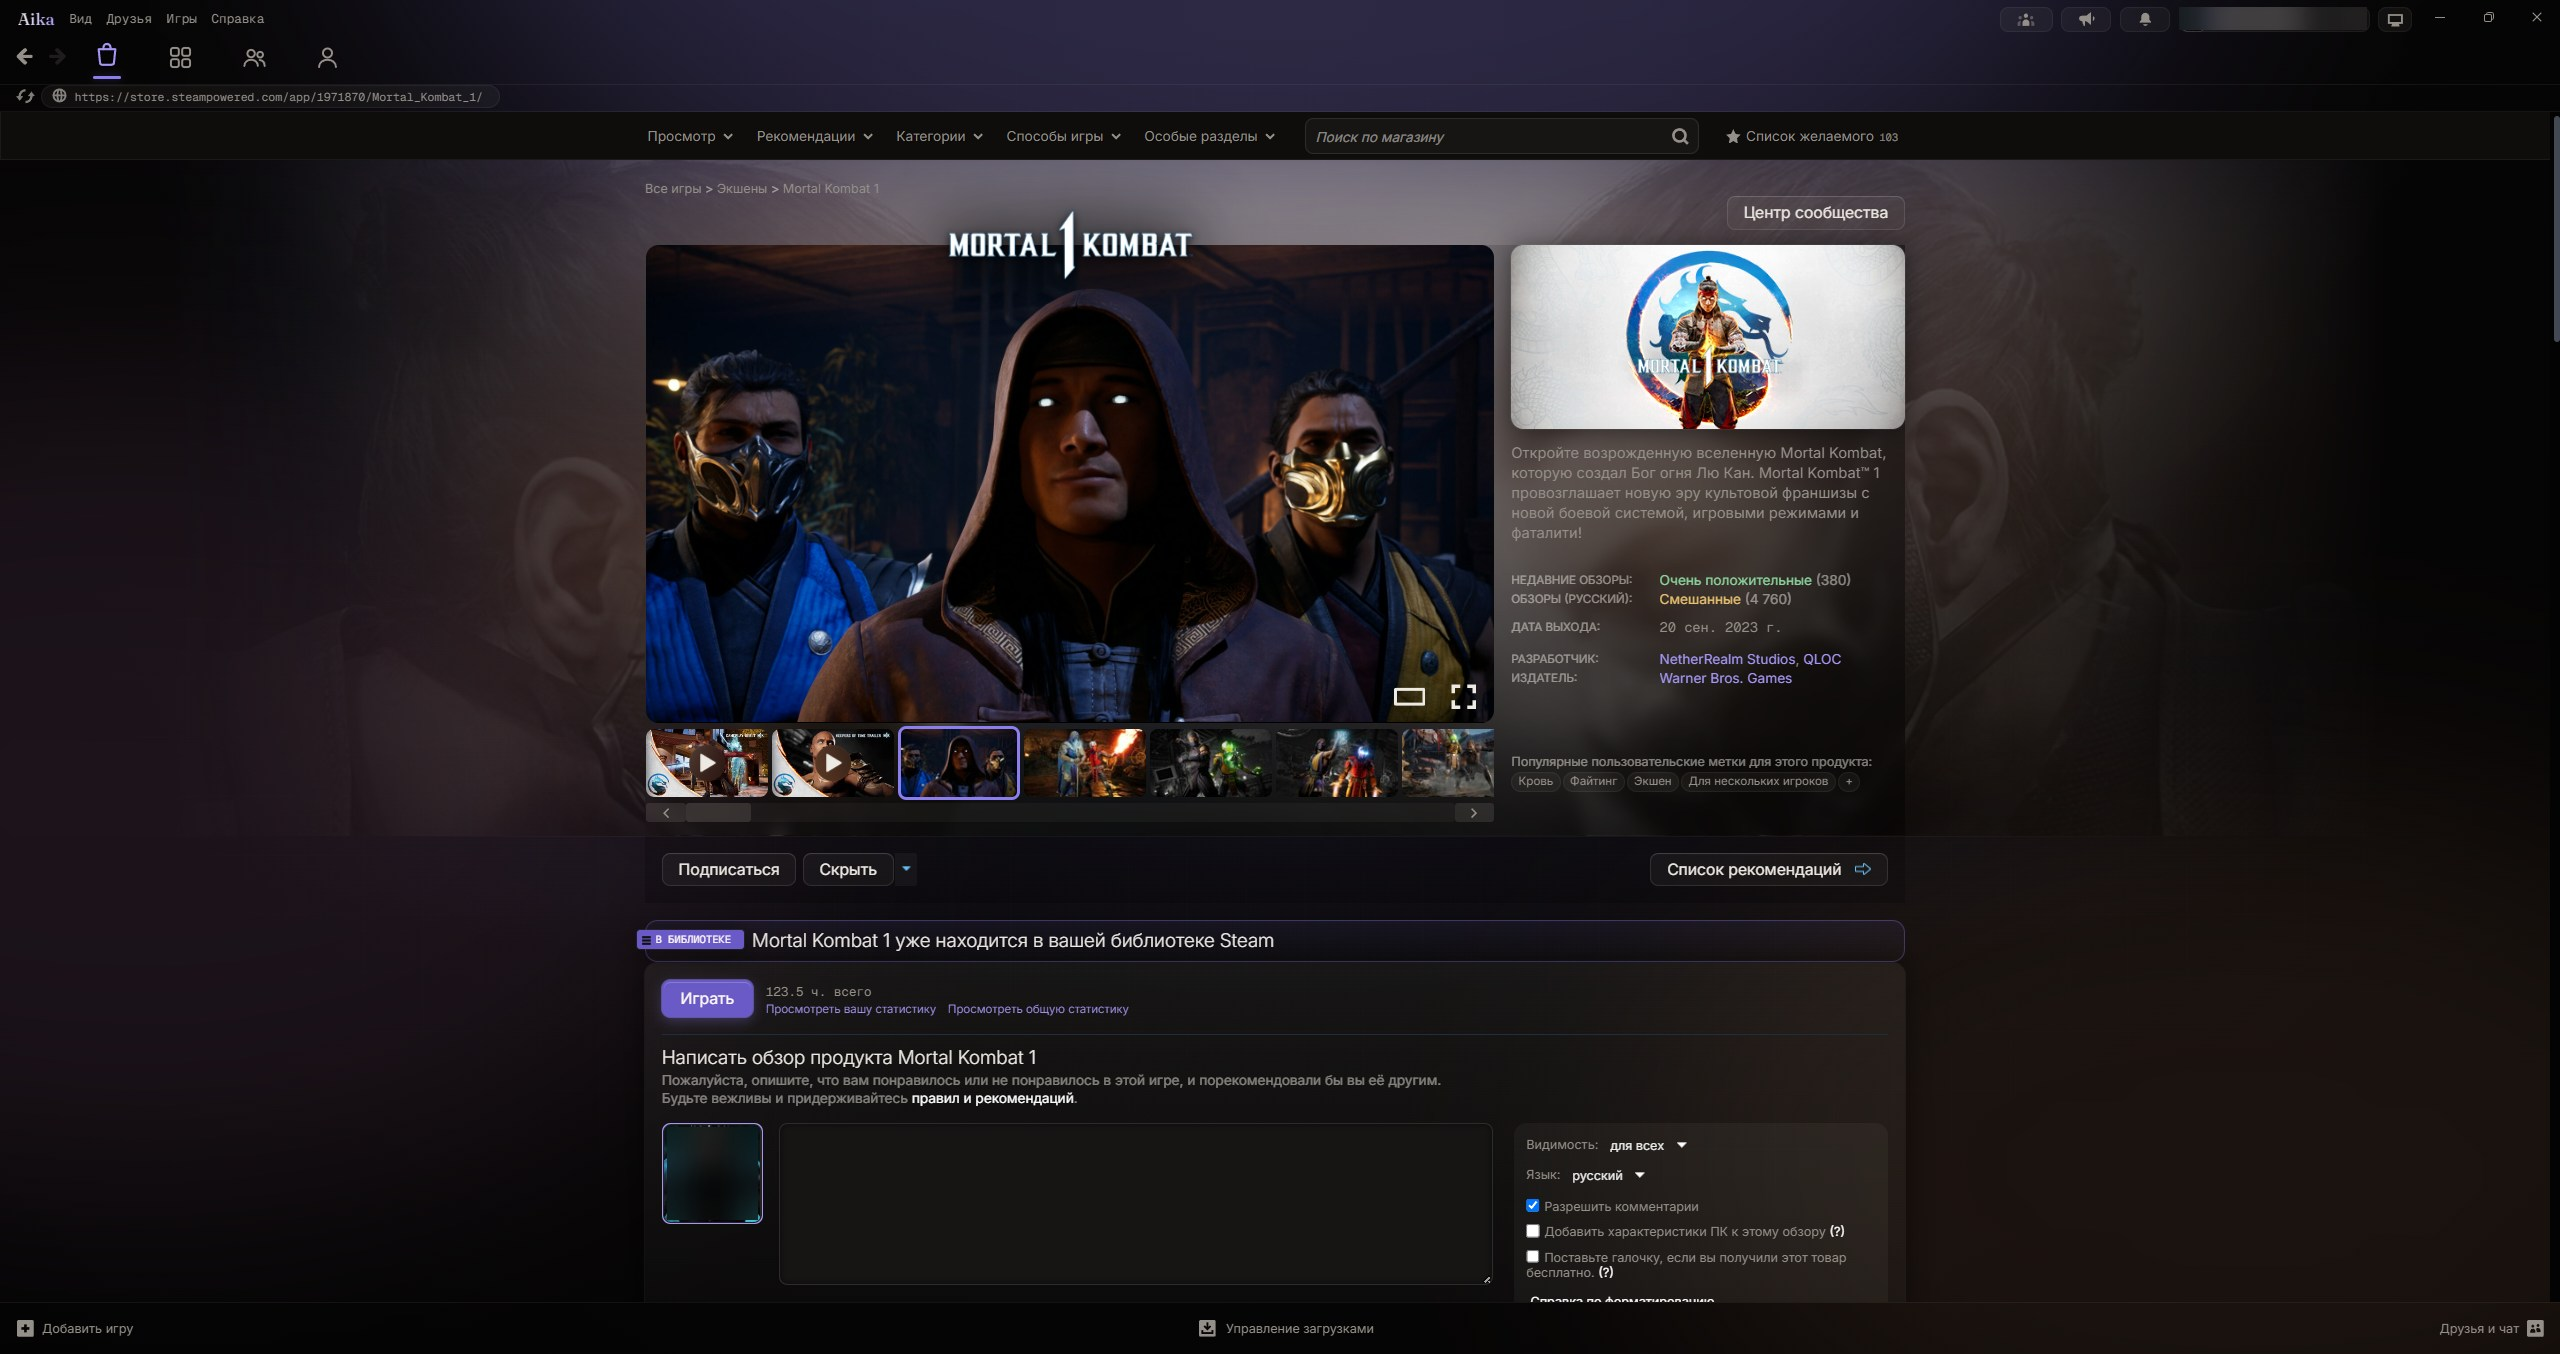
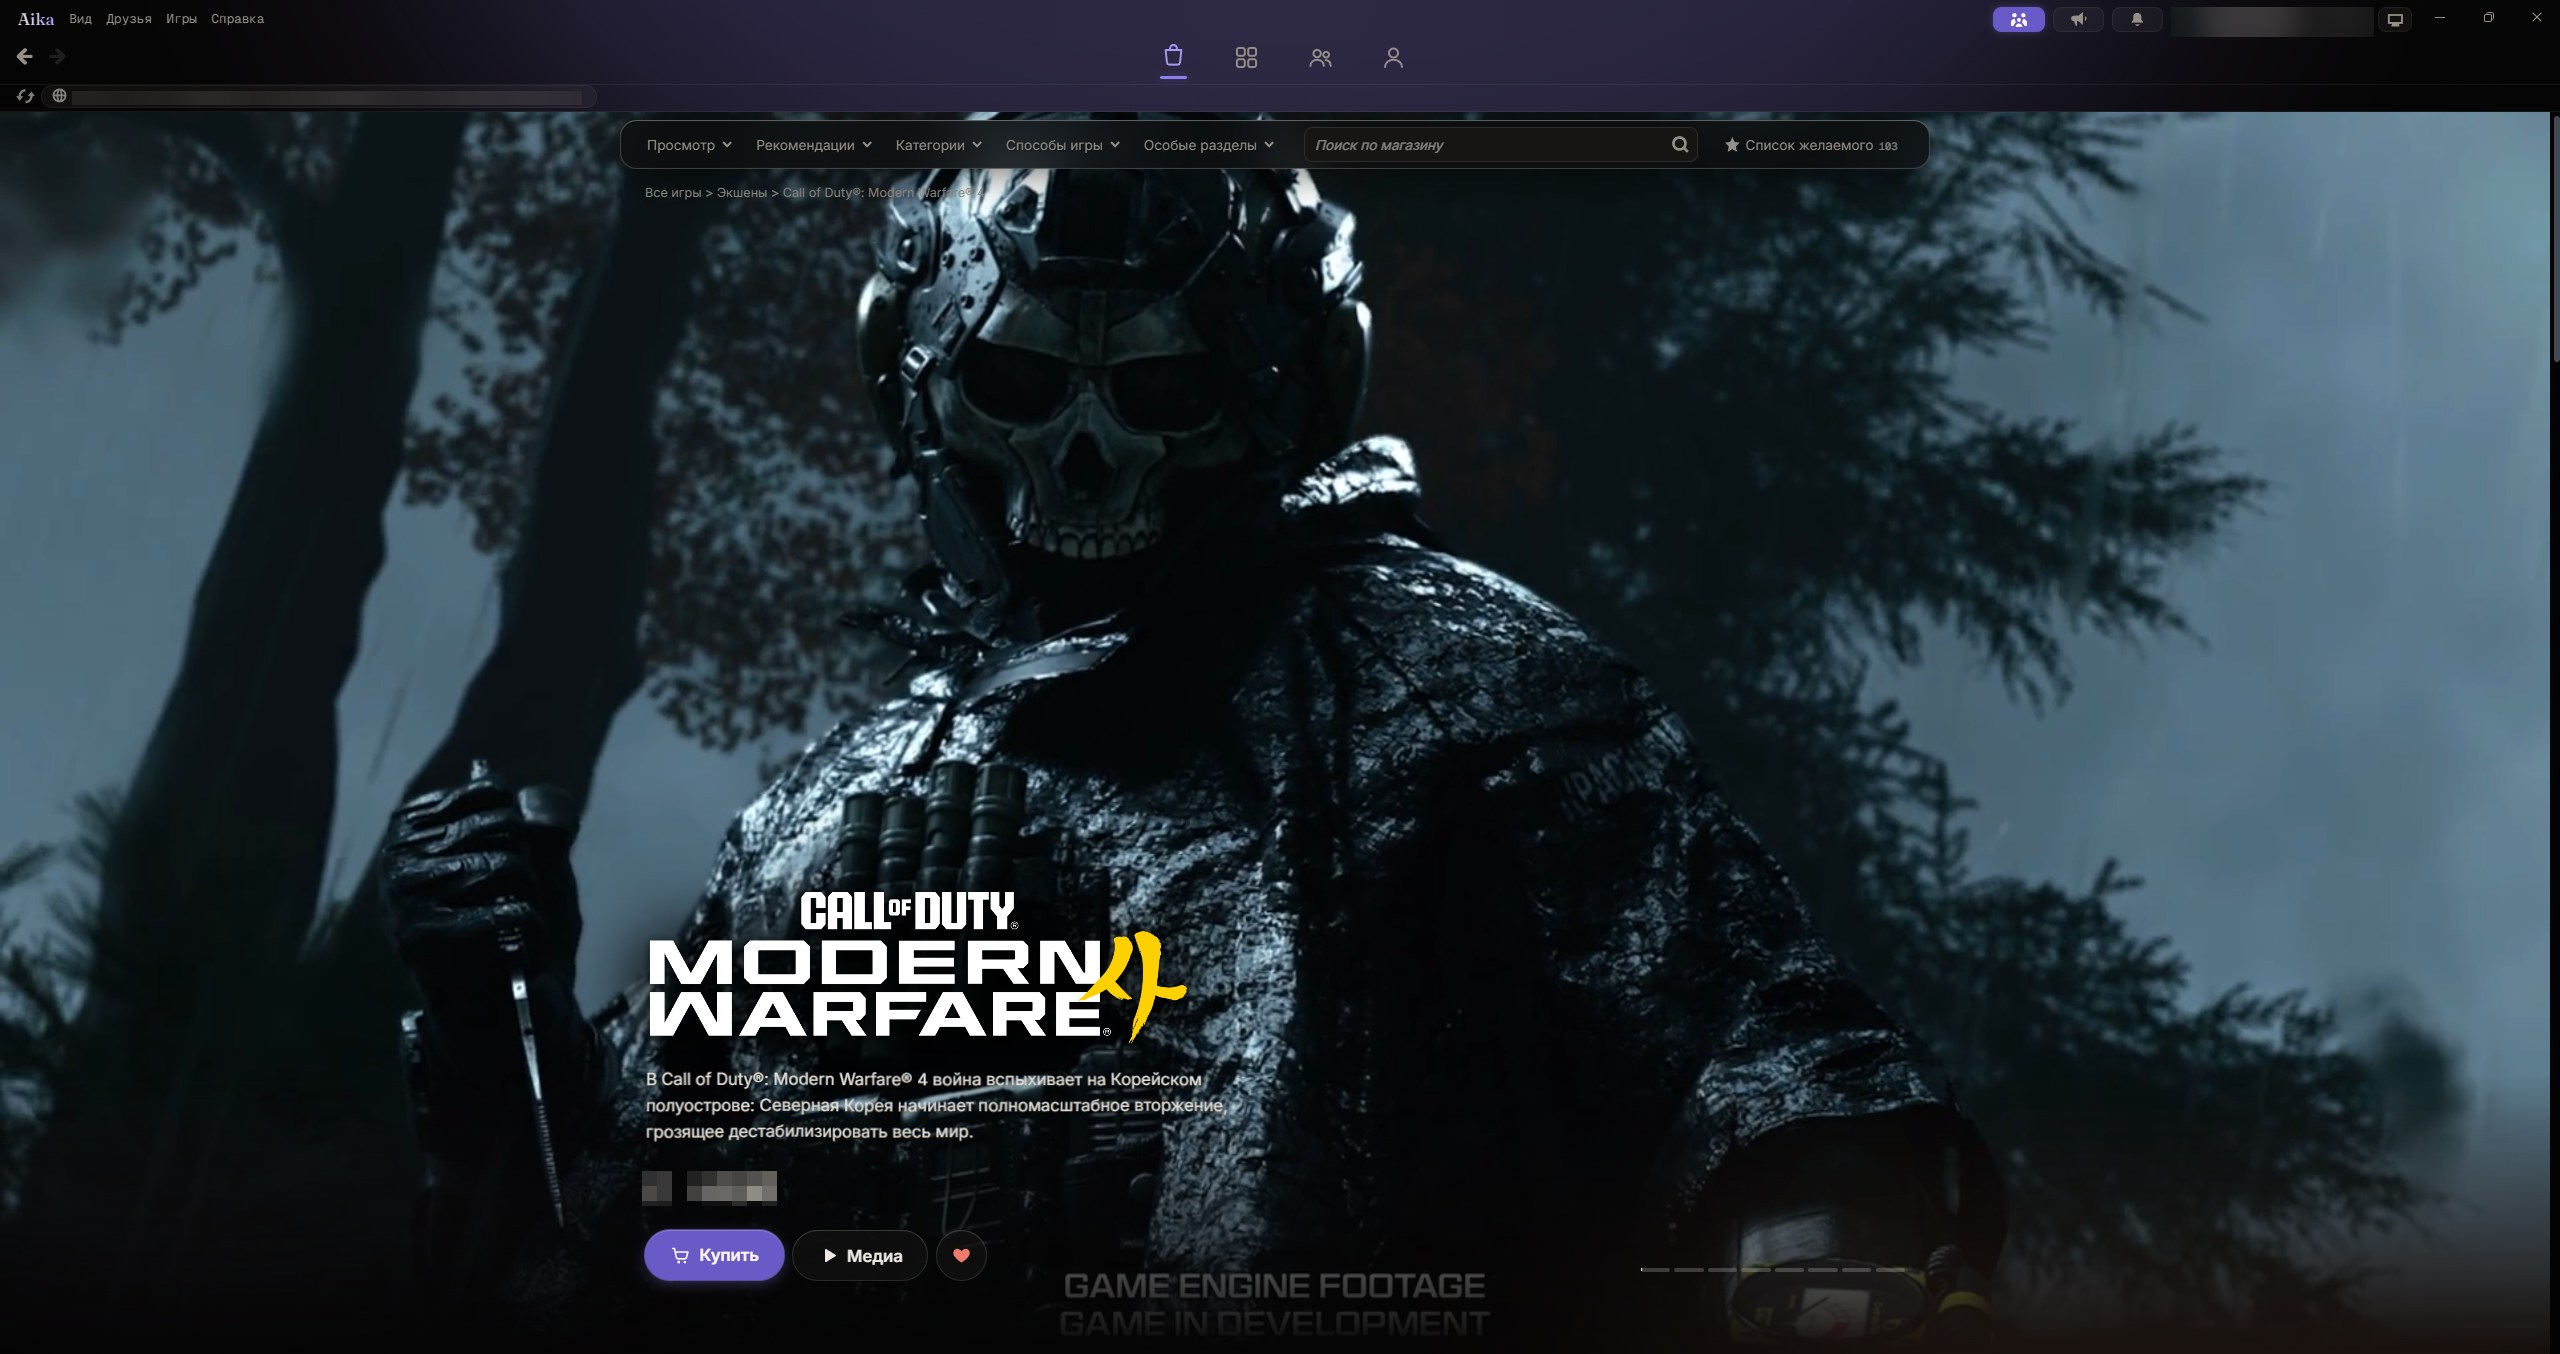
README: new screenshots for 0.1.2 (store home, Cinematic page, search, wishlist, color presets)

diff --git a/ROADMAP.md b/ROADMAP.md
@@ -180,7 +180,7 @@
 | 2026-10-13 | Privacy blur in the header account menu (author: the balance blurred until hovered, a setting, on by default). New setting Main → Privacy blur: Balance (default) / Name and balance / Off — options/privacy-balance.css and privacy-account.css set --aika-privacy-balance / -name to --aika-privacy-blur (3 px: visibly blurred, not wiped out — 5 px erased the small text); components/window.css blurs .AccountMenu > .WalletBalance and the name div with a 250 ms transition, cleared while the menu is hovered or focused. Verified with zoomed screenshots at rest / hovered and with the name option | components/window.css, options/privacy-balance.css, options/privacy-account.css, skin.json, tokens.css, README.md |
 | 2026-10-13 | Checkout (checkout.steampowered.com, body.v6.checkout; ?purchasetype=updatebillinginfo): new sections/store-checkout.css (CSS only — Millennium injects no theme JS into checkout, verified: webkit.css and the option CSS are there, zero theme scripts). The blue cluster_bg band removed; the step tab an accent mono pill (the #66c0f4 box and its PNG notch gone); headings in Inter without the uppercase tracking (the first as the store headline); the form panel and the payment methods block Aika cards; captions in Inter (mono tracking ran the long captions together); fields the Aika input (36 px, focus ring), the card number / CVV mono; dropdowns the same height (Steam content-box + padding made them 48 px), our chevron instead of the PNG arrow, room for it on the narrow month / year triggers; Continue the accent primary instead of the lime gradient. The live-typing card preview (reactbits Pro Credit Card) is not possible without JS — asked the author about a CSS-only alternative | sections/store-checkout.css, webkit.css, tokens.css |
 | 2026-10-13 | Checkout card (author chose the CSS-only variant of reactbits Pro Credit Card: no JS on checkout, CSS cannot read field values). .rightcol::before — the front, in the flow and as wide as the Payment methods block (author), card proportions; ::after — the back laid over it; 3D flip. Art as SVG data URIs in colors.css (chip, contactless, Aika wordmark, placeholder dots, CARD HOLDER / VALID THRU; the back: stripe, signature panel, CVV box) — placeholders only, no field value is read or drawn. Focus follows the form: the number row, the holder or the expiry gets a light frame (a background layer moved by --aika-card-focus-*, percentages = x / (300 − w) so it lands right at any width), the security code turns the card over. Gotcha: the card rules carry :has(#id) and outweighed the focus rules — the states are variables defaulted in a low-specificity rule. Shown only while the card fields are on the page. Verified with CDP focus emulation (Emulation.setFocusEmulationEnabled — an unfocused page never matches :focus) and screenshots of every state | sections/store-checkout.css, colors.css, tokens.css |
-| 2026-10-13 | Release 0.1.2 prepared: version in skin.json, README (highlights, settings with Library covers and Privacy blur, the roadmap table: checkout, the sign-in window, the loading curtain and page transitions, discovery queue, floating icons; the React Bits / Motion credits), privacy check of the 52 files changed since v0.1.1b (no account name, profile id, friend nicknames, user paths), release notes drafted. Waiting for the author screenshots before the tag and the GitHub release | skin.json, README.md |
+| 2026-10-13 | Release 0.1.2 prepared: version in skin.json, README (highlights, settings with Library covers and Privacy blur, the roadmap table: checkout, the sign-in window, the loading curtain and page transitions, discovery queue, floating icons; the React Bits / Motion credits), privacy check of the 52 files changed since v0.1.1b (no account name, profile id, friend nicknames, user paths), release notes drafted. Screenshots from the author (SSforGit/v2) checked for privacy (name, avatar, profile id in the URL, the account menu, the price — blurred; no EXIF / XMP / comments): the store home (Aika) and the Cinematic page replaced, the store search, the wishlist and the three presets (Hello Bert, Greeny, Rose Ash) added; the rest kept. Tag v0.1.2, the GitHub release with Aika-0.1.2.zip | skin.json, README.md, screenshots/ |
 
 ## Waiting for the author to check in Steam
 

diff --git a/README.md b/README.md
@@ -32,10 +32,18 @@ Steam's light blue. The theme doesn't change any Steam text, only the look.
 | Library | Store |
 |:--:|:--:|
 | ![Library](screenshots/library-home.jpg) | ![Store](screenshots/store-home.jpg) |
-| **Store game page** | **Friends** |
-| ![Store game page](screenshots/store-app.jpg) | ![Friends](screenshots/community-friends.png) |
+| **Store game page** (Cinematic) | **Store search** |
+| ![Store game page](screenshots/store-app.jpg) | ![Store search](screenshots/store-search.jpg) |
+| **Wishlist** | **Friends** |
+| ![Wishlist](screenshots/store-wishlist.jpg) | ![Friends](screenshots/community-friends.png) |
 | **Screenshots by game** | **Settings** |
 | ![Screenshots by game](screenshots/community-screenshots.png) | ![Settings](screenshots/settings.png) |
+
+**Color presets** — Hello Bert, Greeny, Rose Ash (Aika is above):
+
+| | | |
+|:--:|:--:|:--:|
+| ![Hello Bert](screenshots/preset-hello-bert.jpg) | ![Greeny](screenshots/preset-greeny.jpg) | ![Rose Ash](screenshots/preset-rose-ash.jpg) |
 
 ## Installation
 
